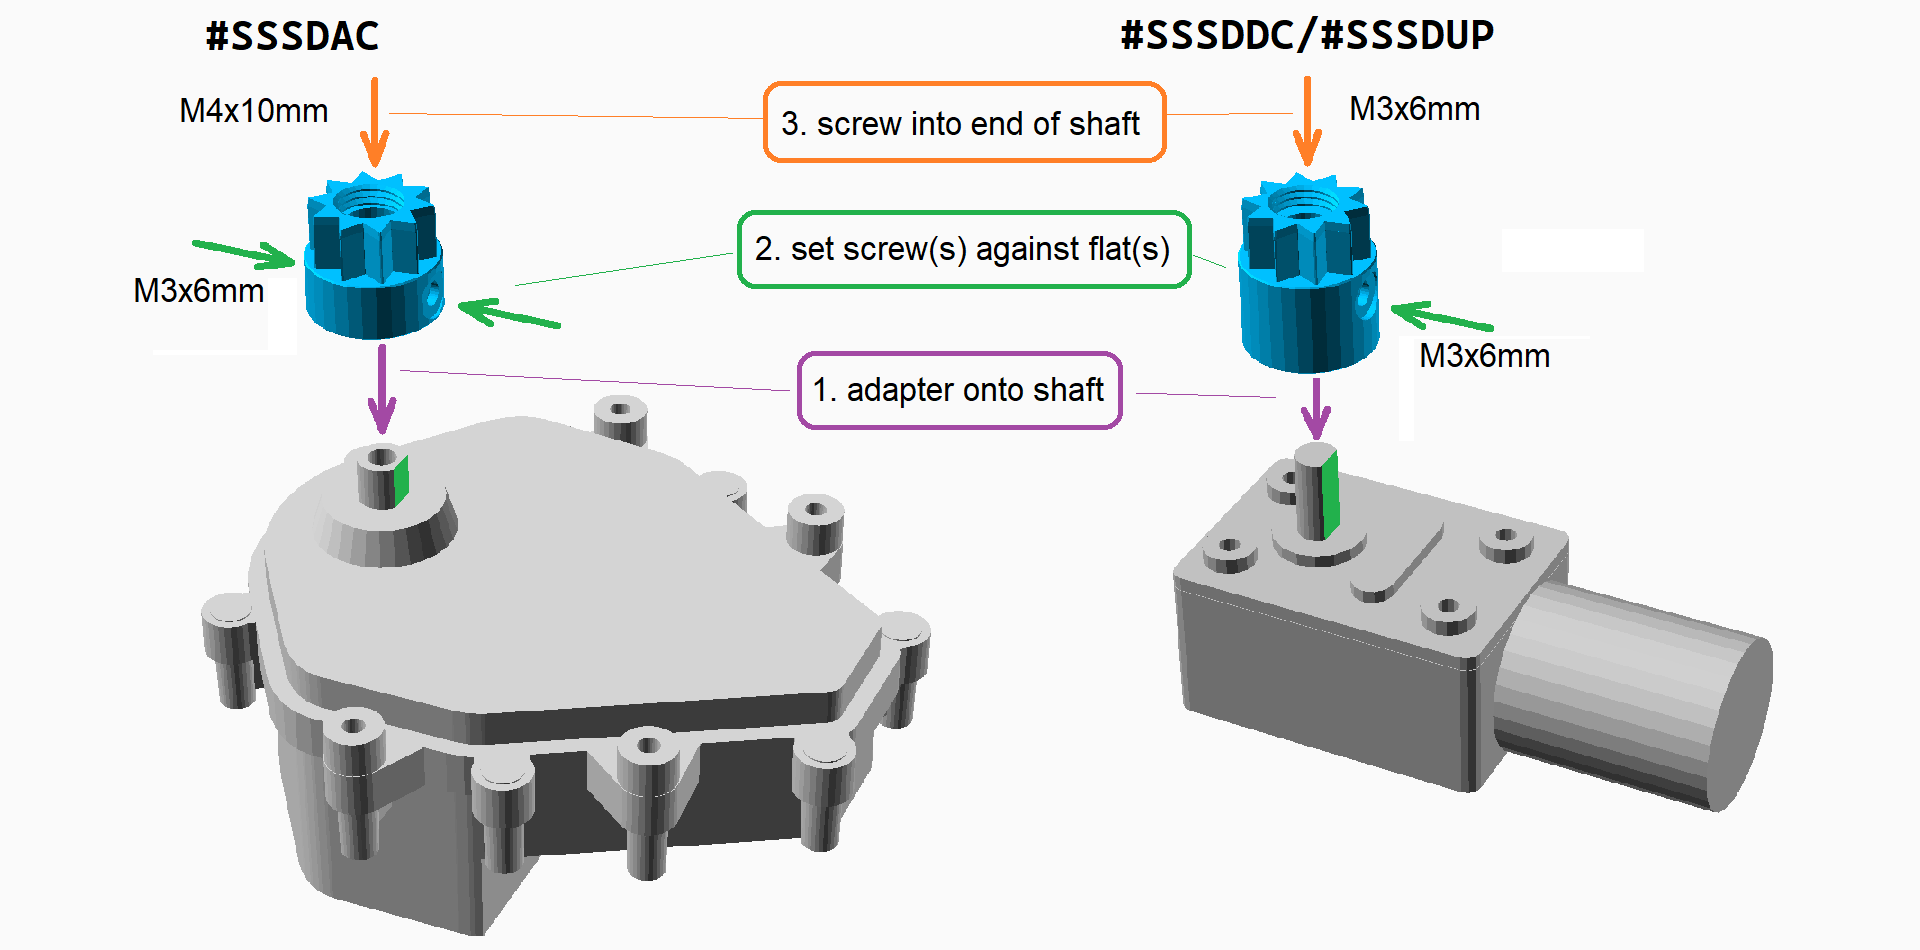
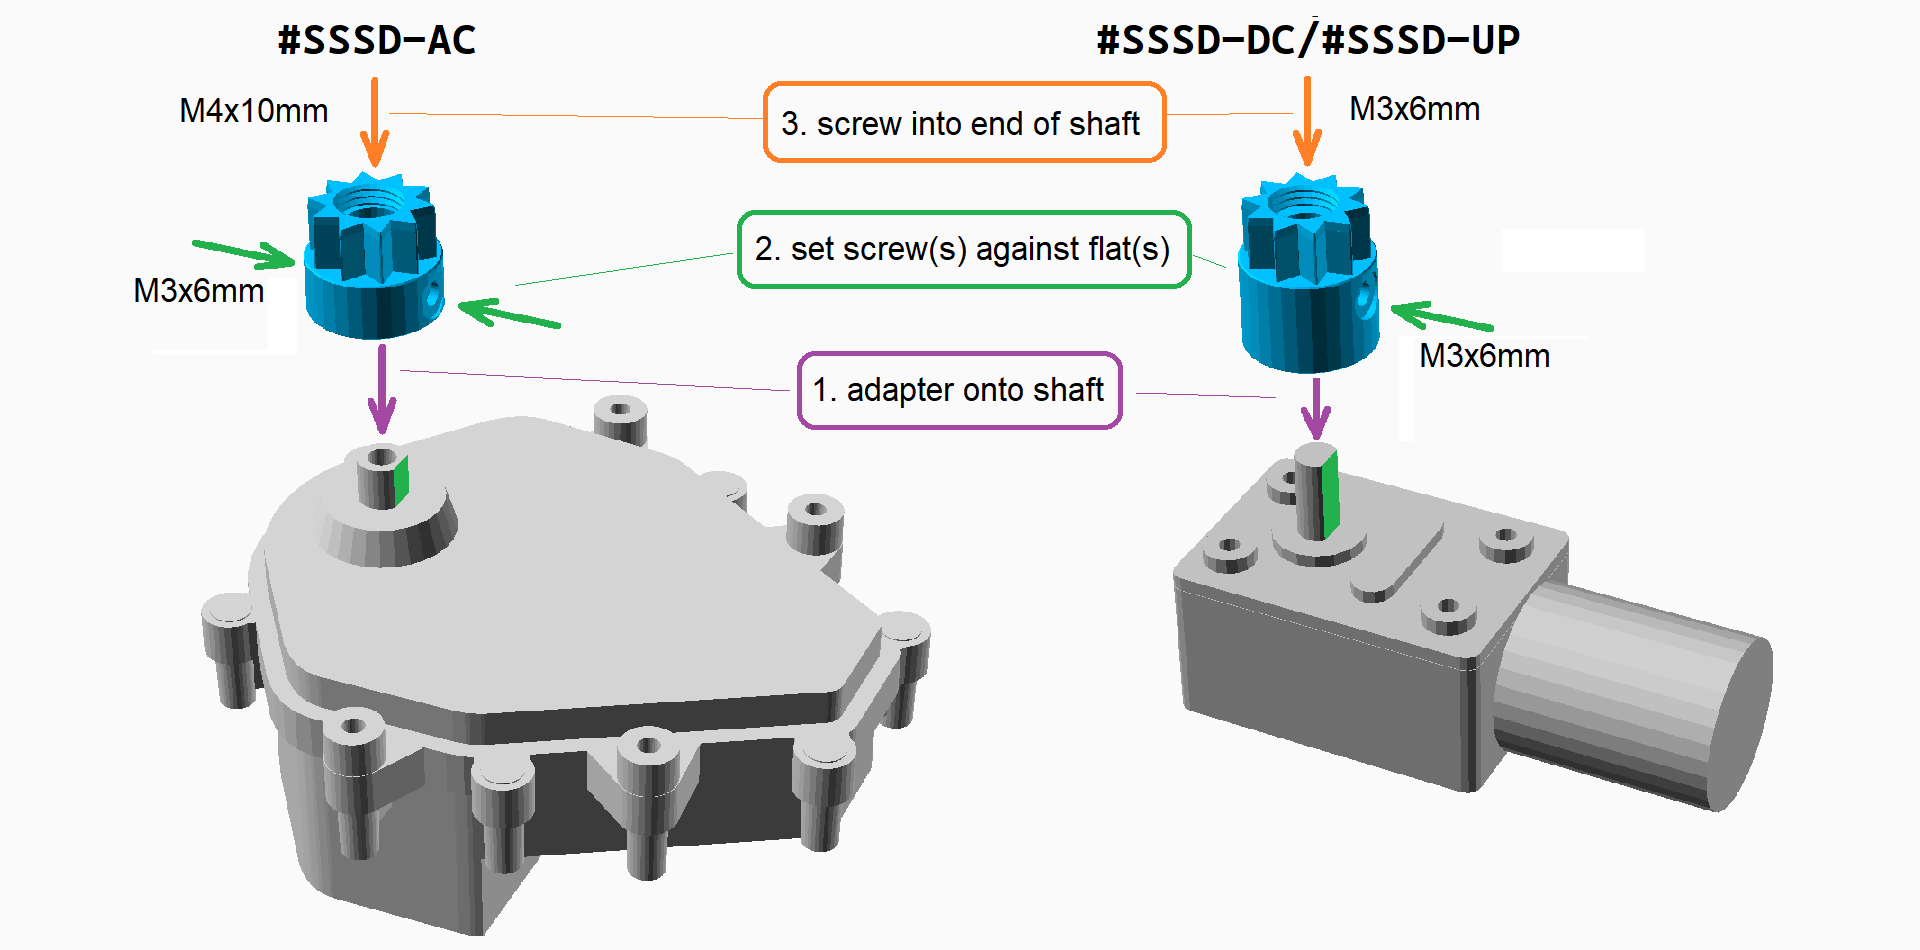
Added hyphens to tags (like `#SSSD-AC`).

Changed region(s): [[0.5625, 0.0, 0.8125, 0.0611], [0.0938, 0.0, 0.25, 0.0611]]

diff --git a/docs/assembly.md b/docs/assembly.md
@@ -9,11 +9,11 @@ STL files will be available on `https:\\printables.com\` [TODO]
 
 Make sure you know which model you are building.  Much of the assembly is the same for all three, but instructions specific to certain models will be tagged.
 
-| Model                             |   Tag     |  Motor   |   Effect       | Soldering |
-| :-------------------------------- | :-------: | :------: | :------------: | :-------: |
-| Stupidly Simple Spider Dropper AC | `#SSSDAC` | reindeer |   continuous   |   none    |
-| Stupidly Simple Spider Dropper DC | `#SSSDDC` |  12V DC  |   continuous   |  2 wires  |
-| SSSD w/ Slightly Smarter Upgrade  | `#SSSDUP` |  12V DC  |motion triggered|  circuit  |
+| Model                             |    Tag     |  Motor   |   Effect       | Soldering |
+| :-------------------------------- | :--------: | :------: | :------------: | :-------: |
+| Stupidly Simple Spider Dropper AC | `#SSSD-AC` | reindeer |   continuous   |   none    |
+| Stupidly Simple Spider Dropper DC | `#SSSD-DC` |  12V DC  |   continuous   |  2 wires  |
+| SSSD w/ Slightly Smarter Upgrade  | `#SSSD-UP` |  12V DC  |motion triggered|  circuit  |
 
 ## Safety
 
@@ -27,22 +27,22 @@ Make sure you know which model you are building.  Much of the assembly is the sa
 
 ## Tools
 
-| Tool                           | `#SSSDAC` | `#SSSDDC` | `#SSSDUP` |
-| :----------------------------- | :-------: | :-------: | :-------: |
-| Phillips screwdriver           | \#0 & \#1 |    \#0    |   \#0     |
-| small wire cutter              | required  | required  | required  |
-| wire stripper (22 AWG)         |           | required  | required  |
-| soldering iron                 |           | required  | required  |
-| heat gun (heat-shrink tubing)  |           |recommended|recommended|
-| needle nose pliers or tweezers |recommended|recommended|recommended|
-| crimping pliers (Dupont)       |           |           | required\*|
-| crimping pliers (JST XH)       |           |           | required\*|
-| bearing removal tool `#3D`     | optional  | optional  | optional  |
-| soldering jig `#3D`            |           |           | optional  |
-| pin bender `#3D`               |           |           | optional  |
-| measuring tape or ruler        |recommended|recommended|recommended|
-| drill with 1/8" (3mm) bit      |recommended|recommended|recommended|
-| hot glue gun (w/ black glue)   |recommended|recommended|recommended|
+| Tool                           | `#SSSD-AC` | `#SSSD-DC` | `#SSSD-UP` |
+| :----------------------------- | :--------: | :--------: | :--------: |
+| Phillips screwdriver           | \#0 & \#1  |    \#0     |    \#0     |
+| small wire cutter              |  required  |  required  |  required  |
+| wire stripper (22 AWG)         |            |  required  |  required  |
+| soldering iron                 |            |  required  |  required  |
+| heat gun (heat-shrink tubing)  |            |recommended |recommended |
+| needle nose pliers or tweezers |recommended |recommended |recommended |
+| crimping pliers (Dupont)       |            |            | required\* |
+| crimping pliers (JST XH)       |            |            | required\* |
+| bearing removal tool `#3D`     |  optional  |  optional  |  optional  |
+| soldering jig `#3D`            |            |            |  optional  |
+| pin bender `#3D`               |            |            |  optional  |
+| measuring tape or ruler        |recommended |recommended |recommended |
+| drill with 1/8" (3mm) bit      |recommended |recommended |recommended |
+| hot glue gun (w/ black glue)   |recommended |recommended |recommended |
 
 \* **Norcal Haunters:** Crimping pliers are not required for the Make & Take kits.
 
@@ -53,24 +53,24 @@ Tools tagged with `#3D` can be printed with a 3D printer.  (Subject to change in
 
 ## Parts
 
-| Part                           | `#SSSDAC` | `#SSSDDC` | `#SSSDUP` |
-| :----------------------------- | :-------: | :-------: | :-------: |
-| motor                          | reindeer  |  JGY-370  |  JGY-370  |
-| 2-wire motor "pigtail"         |           |  barrel   |  JST XH   |
-| shaft adapter `#3D`            |    7mm    |    6mm    |    6mm    |
-| [M3 threaded inserts](#threaded-inserts) |2|     1     |     1     |
-| M3×16mm sheet metal screws     |     4     |           |           |
-| M3×6mm machine screws          |     2     |     6     |     7     |
-| base plate `#3D`               |     1     |     1     |     1     |
-| spool assembly `#3D`           |     1     |     1     |     1     |
-| 608 (skateboard) bearings      |     2     |     2     |     2     |
-| drive gear `#3D`               |     1     |     1     |     1     |
-| hub screw `#3D`                |     1     |     1     |     1     |
-| monofilament (fishing line)    |  3+ feet  |  3+ feet  |  3+ feet  |
-| toy spider                     |     1     |     1     |     1     |
-| 4" zip ties                    |     1     |     2     |     2     |
-| 8" zip ties                    |     2     |     2     |     3     |
-| 12VDC power supply             |           | not incl. | not incl. |
+| Part                           | `#SSSD-AC` | `#SSSD-DC` | `#SSSD-UP` |
+| :----------------------------- | :--------: | :--------: | :--------: |
+| motor                          |  reindeer  |  JGY-370   |  JGY-370   |
+| 2-wire motor "pigtail"         |            |   barrel   |  JST XH    |
+| shaft adapter `#3D`            |    7mm     |    6mm     |    6mm     |
+| [M3 threaded inserts](#threaded-inserts) |2 |     1      |     1      |
+| M3×16mm sheet metal screws     |     4      |            |            |
+| M3×6mm machine screws          |     2      |     6      |     7      |
+| base plate `#3D`               |     1      |     1      |     1      |
+| spool assembly `#3D`           |     1      |     1      |     1      |
+| 608 (skateboard) bearings      |     2      |     2      |     2      |
+| drive gear `#3D`               |     1      |     1      |     1      |
+| hub screw `#3D`                |     1      |     1      |     1      |
+| monofilament (fishing line)    |  3+ feet   |  3+ feet   |  3+ feet   |
+| toy spider                     |     1      |     1      |     1      |
+| 4" zip ties                    |     1      |     2      |     2      |
+| 8" zip ties                    |     2      |     2      |     3      |
+| 12VDC power supply             |            | not incl.  | not incl.  |
 
 For detailed part specifications and possible sources, check the spreadsheet in the project repository on Github.
 
@@ -88,7 +88,7 @@ There are three options for threaded inserts.  You must match the insert type to
 
 **Norcal Haunters:**  Heat-set threaded inserts have been pre-installed in the Make & Take kits.
 
-### Additional Parts (`#SSSDUP` only)
+### Additional Parts (`#SSSD-UP` only)
 
 | Qty | Circuit Part                    | | Qty | Sensor Part                |
 | --: | :------------------------------ |-| --: | :------------------------- |
@@ -124,7 +124,7 @@ Print with a 0.4&nbsp;mm nozzle and no supports.  PLA works, but prefer PETG for
 
 ![Print layout for fine parts](fine_parts.png)
 
-### Prepare the Reindeer Motor (`#SSSDAC` only)
+### Prepare the Reindeer Motor (`#SSSD-AC` only)
 
 - [ ] Confirm the motor turns clockwise and does not auto-reverse if obstructed.
 - [ ] Remove any crank or hub that came with the motor. Retain the shaft screw for later.
@@ -132,7 +132,7 @@ Print with a 0.4&nbsp;mm nozzle and no supports.  PLA works, but prefer PETG for
 
 ![Locations of Reindeer Motor Mounting Posts](deer_motor_mounts.png)
 
-### Prepare the DC Motor (`#SSSDDC` or `#SSSDUP`)
+### Prepare the DC Motor (`#SSSD-DC` or `#SSSD-UP`)
 
 - [ ] Temporarily connect 12 volts DC to the motor.
 - [ ] If it turns counterclockwise, reverse the polarity.
@@ -161,7 +161,7 @@ Print with a 0.4&nbsp;mm nozzle and no supports.  PLA works, but prefer PETG for
 
 ![Mounting the motor to the base plate.](mounting_the_motor.png)
 
-### Solder the Slightly Smarter Circuit (`#SSSDUP` only)
+### Solder the Slightly Smarter Circuit (`#SSSD-UP` only)
 
 ![Bare circuit board](pcb_front.png)
 
@@ -188,7 +188,7 @@ Print with a 0.4&nbsp;mm nozzle and no supports.  PLA works, but prefer PETG for
 ![Switch installed on back of circuit board](pcb_back_populated.png)<br>
 Note:  The lever of the switch is smaller than shown in the illustration above.
 
-### Attach the Circuit Board (`#SSSDUP` only)
+### Attach the Circuit Board (`#SSSD-UP` only)
 
 - [ ] Match the triangular arrow on the circuit to the one embossed on the build plate and slide that end under the lip.
 - [ ] Secure the circuit board with an M3×6mm screw at H1 and a square nut in the pocket underneath.
@@ -200,7 +200,7 @@ Note:  The lever of the switch is smaller than shown in the illustration above.
 
 ![Motor Pigtail Secured with zip tie](pigtail_secured.jpg)
 
-### Make the Sensor Cable (`#SSSDUP` only)
+### Make the Sensor Cable (`#SSSD-UP` only)
 
 - [x] Remove ~50&nbsp;mm (2&nbsp;inches) of the jacket from one end of the cable.
 - [x] Strip ~2&nbsp;mm from the tips of each of the exposed wires.
@@ -215,7 +215,7 @@ Note:  The lever of the switch is smaller than shown in the illustration above.
 - [x] Crimp the Dupont-style pins (female) onto the wires.  Do not put them into the connector housing yet.
 - [x] Slide ~25&nbsp;mm (1&nbsp;inch) of heat-shrink tubing over the cable and shrink it ~50&nbsp;mm (2&nbsp;inches) from the tips of the pins.
 
-### Connect the Motion Sensor (`#SSSDUP` only)
+### Connect the Motion Sensor (`#SSSD-UP` only)
 
 ![Motion Sensor Assembly](sensor_assembly_exploded.jpg)
 
@@ -314,7 +314,7 @@ There must be at least 24 inches (610 mm) of line between the bottom of the stri
 - [ ] Keeping some tension on the string, wind the spool 2.5 revolutions in the direction shown by the arrows.  If the spider reaches the guide before you complete the turns, the spider was tied too high.
 - [ ] Trim the excess monofilament.
 
-### Final Connection (`#SSSDUP` only)
+### Final Connection (`#SSSD-UP` only)
 
 - [ ] Plug the sensor into the 3-pin connector on the circuit board.
 - [ ] Use a small zip tie to secure the cable to the base plate as shown.
@@ -334,9 +334,9 @@ There must be at least 24 inches (610 mm) of line between the bottom of the stri
 - [ ] Allow the spool to fully unwind and the spider to dangle.
 - [ ] Connect the power.
 
-`#SSSDAC`/`#SSSDDC`:  The spider should rise and then drop suddenly.  The cycle should repeat continuously.
+`#SSSD-AC`/`#SSSD-DC`:  The spider should rise and then drop suddenly.  The cycle should repeat continuously.
 
-`#SSSDUP`:  The spider should rise to its highest point, and then stop until the sensor detects motion.  When that happens, the spider will drop suddenly and then rise again.
+`#SSSD-UP`:  The spider should rise to its highest point, and then stop until the sensor detects motion.  When that happens, the spider will drop suddenly and then rise again.
 
 - [ ] Confirm the line winds in an orderly fashion around the spool.
 - [ ] Confirm the drive gear doesn't rub against the spool.
